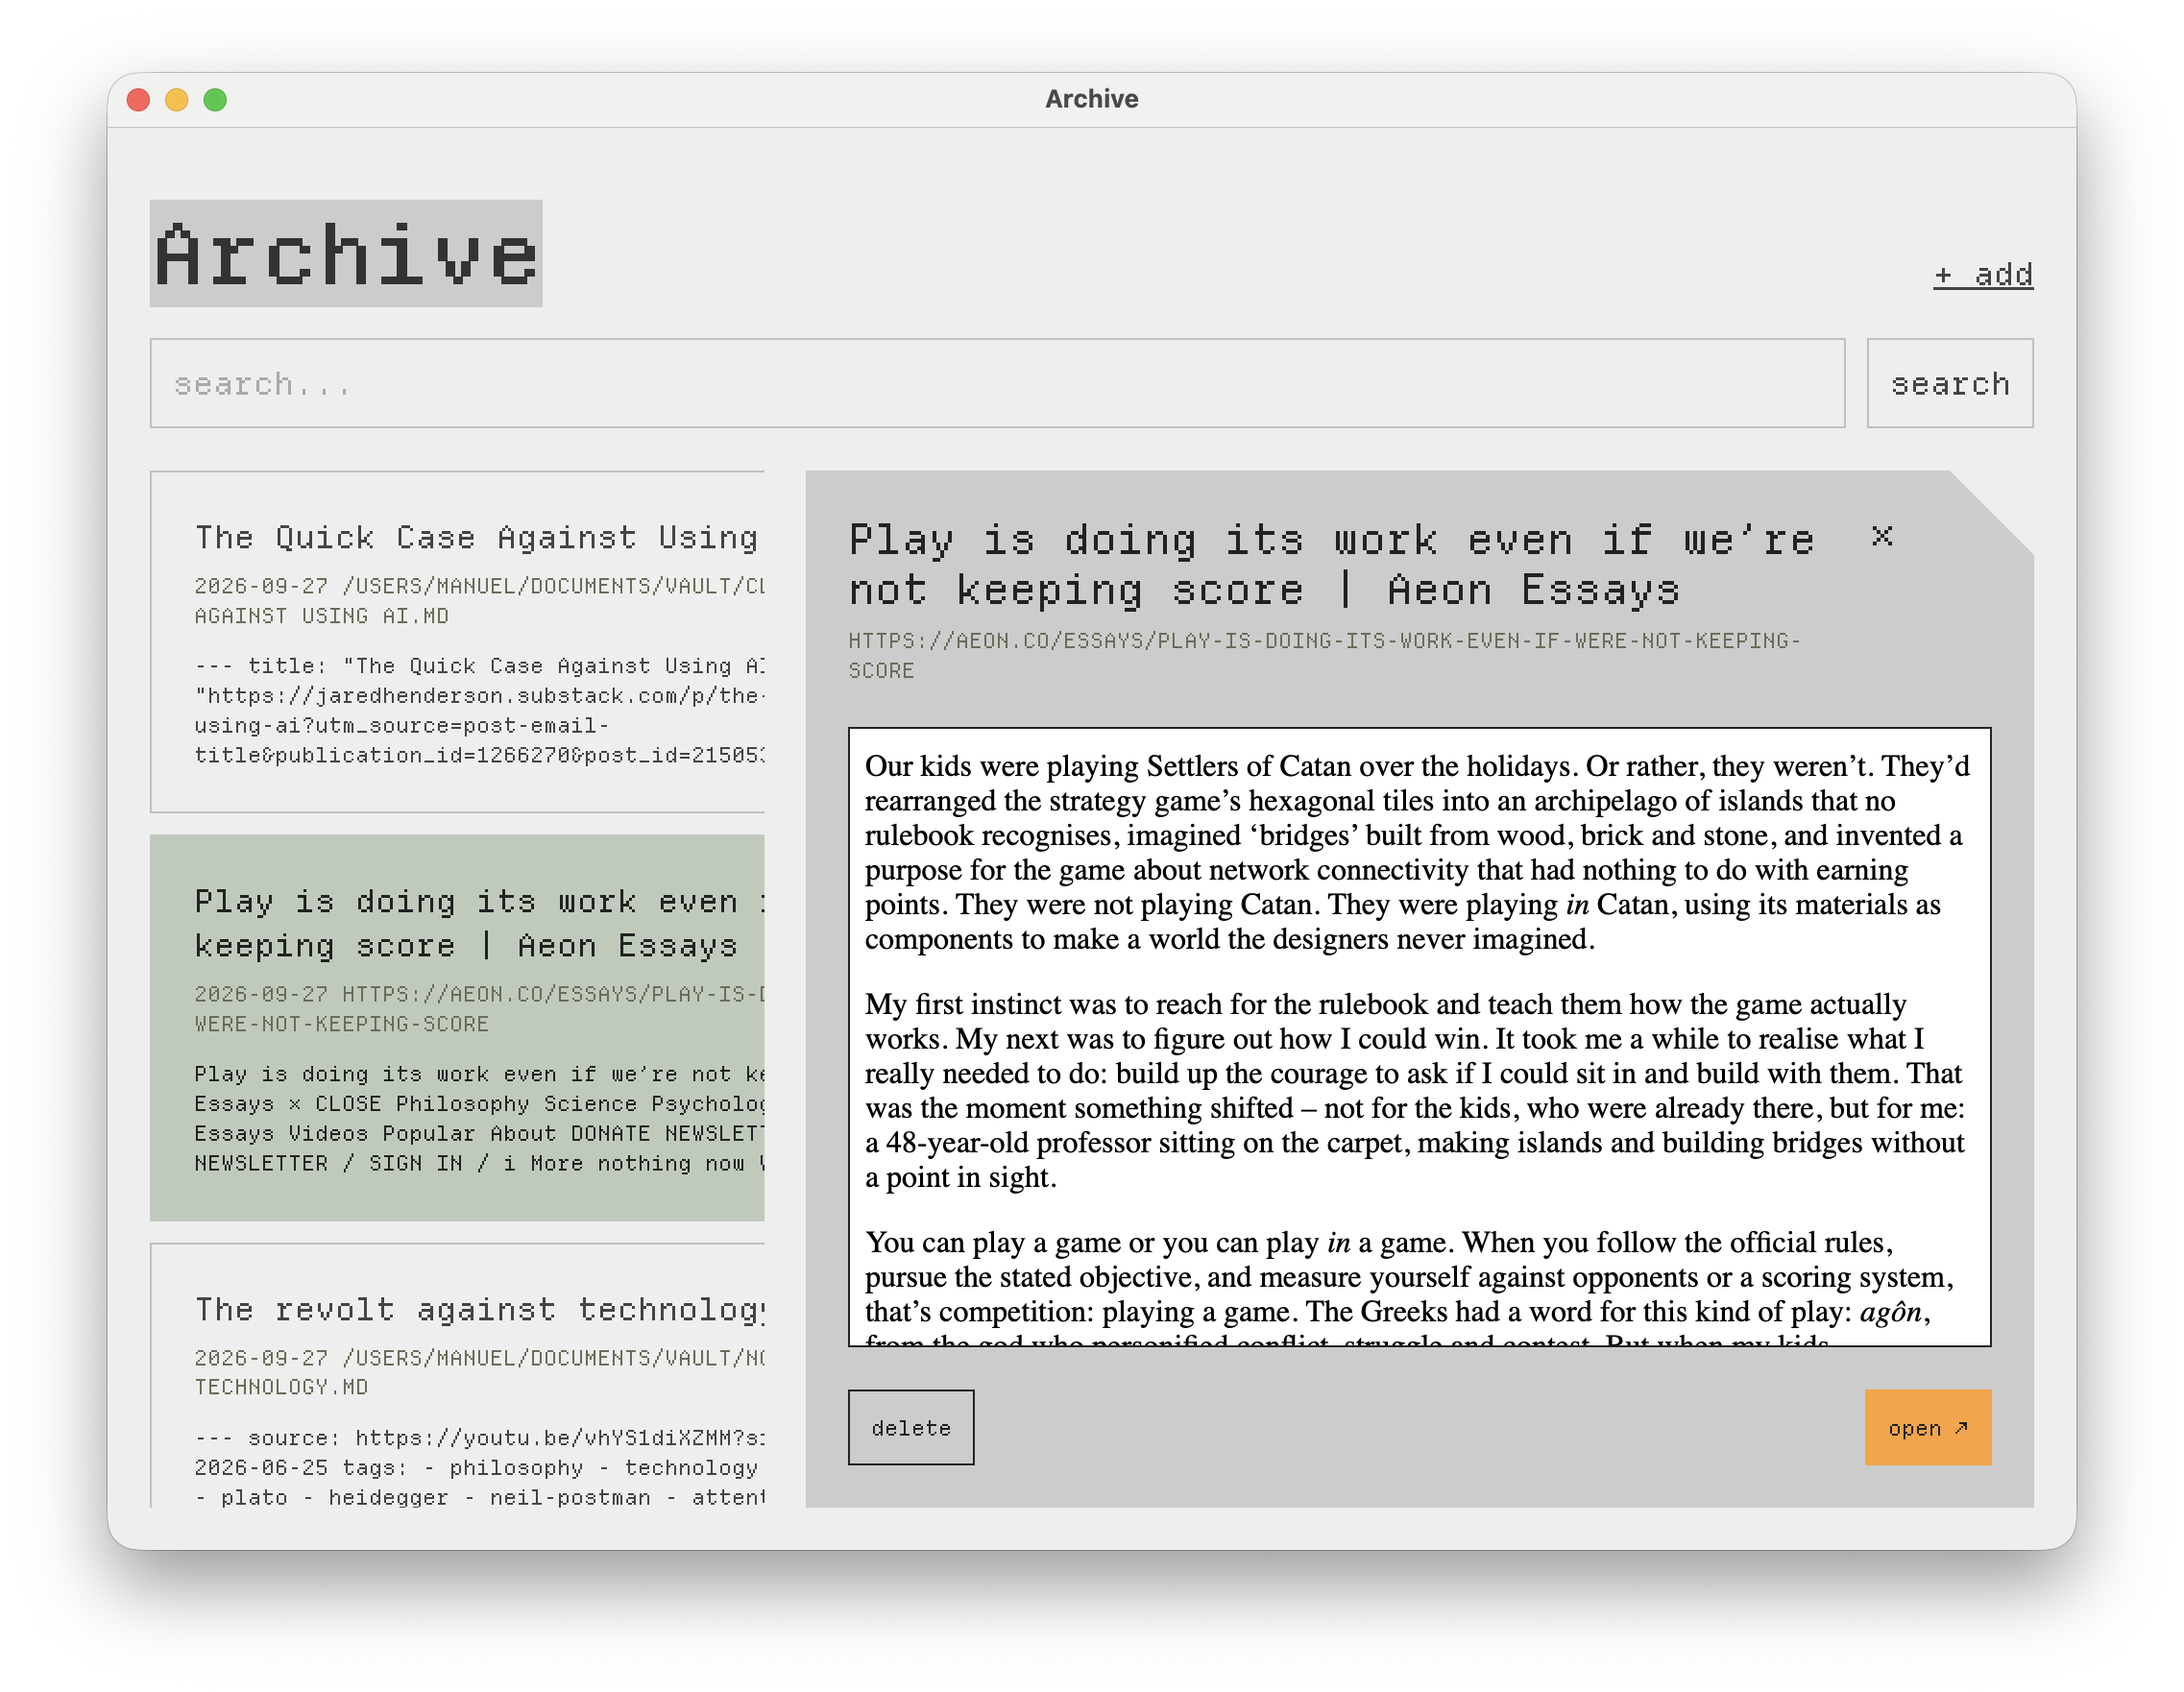
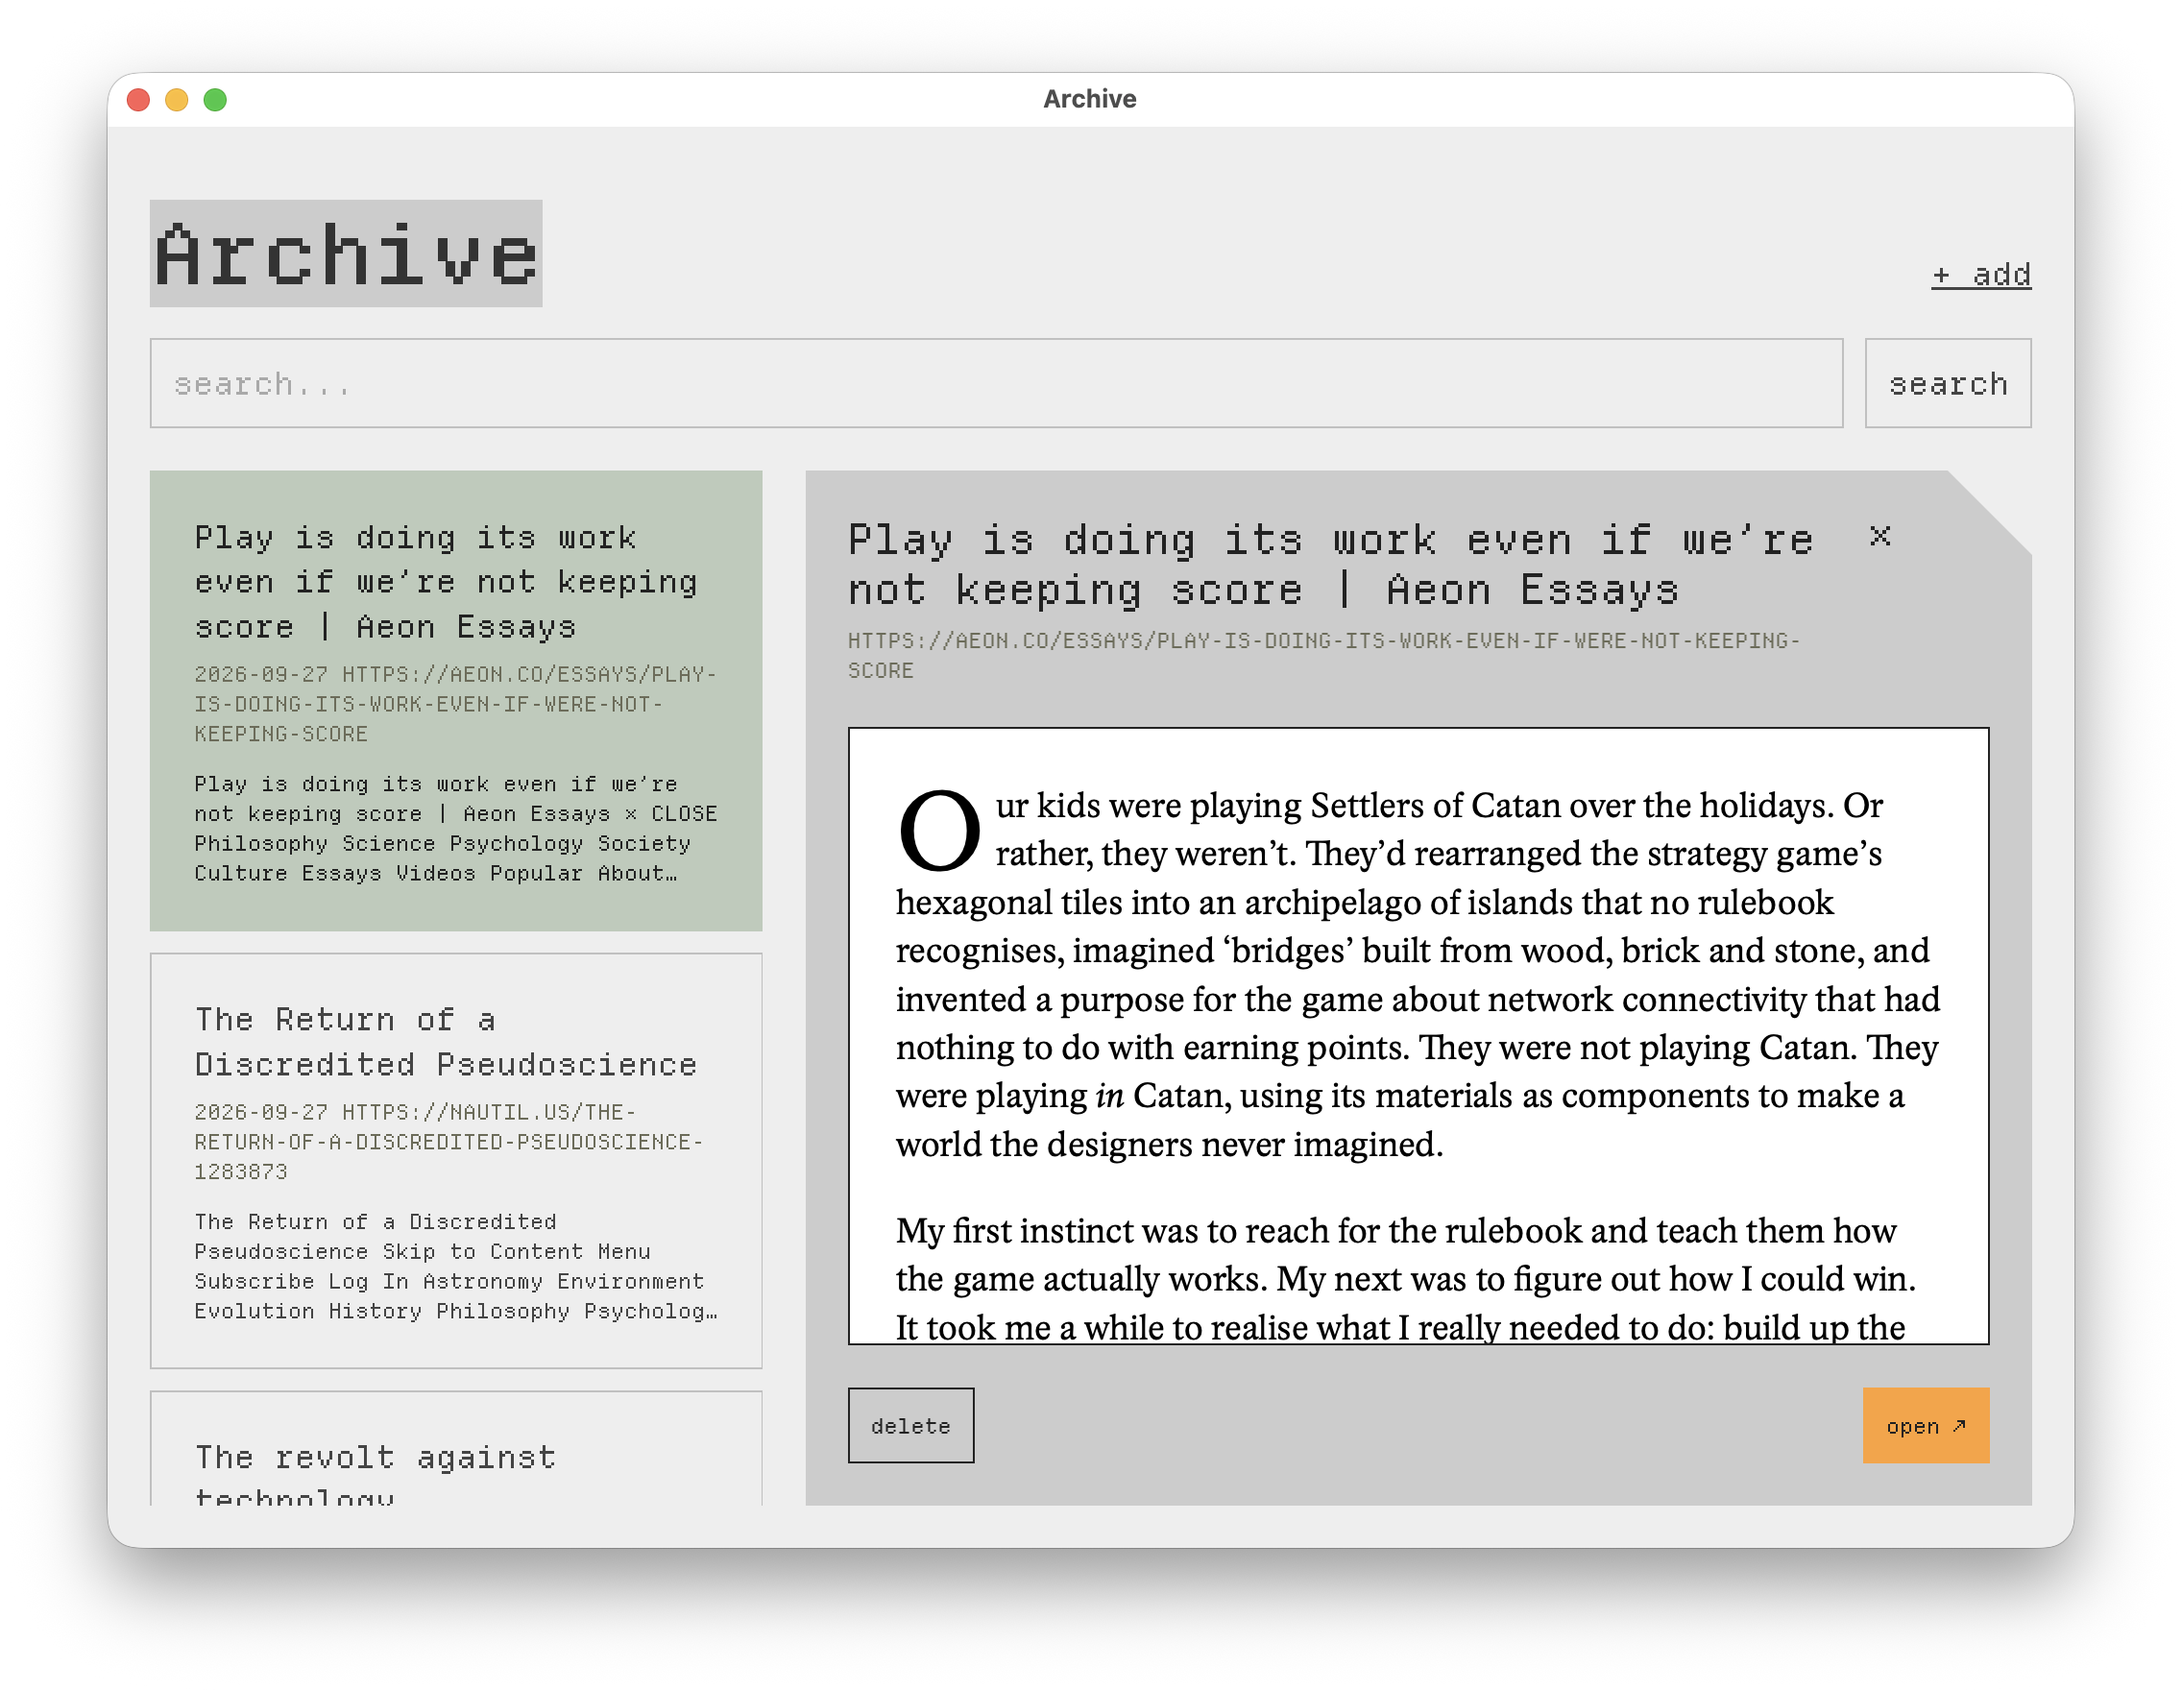
markdown renderer

diff --git a/ui/src/Preview.svelte b/ui/src/Preview.svelte
@@ -1,9 +1,12 @@
 <script>
+  import { marked } from "marked";
+
   let { item, onclose, ondelete } = $props();
 
   let text = $state("");
   let confirming = $state(false);
   let isWeb = $derived(/^https?:\/\//.test(item.source));
+  let isMarkdown = $derived(/\.md$/i.test(item.source));
 
   $effect(() => {
     const id = item.id;
@@ -20,6 +23,20 @@
 
     return () => (stale = true);
   });
+
+  function markdownPage(md) {
+    return `<style>${markdownStyle}</style>${marked.parse(md)}`;
+  }
+
+  const markdownStyle = `
+    body { margin: 0; padding: 22px; font: 13px/1.6 "Departure Mono", monospace; color: #222; background: #eee; }
+    body > :first-child { margin-top: 0; }
+    img { max-width: 100%; }
+    pre { overflow: auto; padding: 11px; background: #ccc; }
+    code { font: inherit; }
+    blockquote { margin-left: 0; padding-left: 11px; border-left: 2px solid #8e8e8e; color: #6c6c58; }
+    a { color: currentColor; }
+  `;
 
   function open() {
     if (window.openExternal) window.openExternal(item.source);
@@ -49,6 +66,10 @@
   {#if item.hasHtml}
     <!-- the server also sends sandbox -->
     <iframe sandbox="" src="/items/{item.id}/html" title={item.title || item.source}></iframe>
+  {:else if isMarkdown}
+    {#key text}
+      <iframe sandbox="" srcdoc={markdownPage(text)} title={item.title}></iframe>
+    {/key}
   {:else}
     <pre>{text}</pre>
   {/if}

diff --git a/ui/src/Library.svelte b/ui/src/Library.svelte
@@ -125,6 +125,7 @@
     width: 100%;
     text-align: left;
     padding: 22px;
+    overflow-wrap: anywhere;
   }
 
   .card.selected {
@@ -160,7 +161,6 @@
 
   .label {
     margin-bottom: 11px;
-    overflow-wrap: anywhere;
   }
 
   .excerpt {

diff --git a/README.md b/README.md
@@ -86,9 +86,9 @@ dist/archive-desktop
 
 Or open <http://localhost:8080> in a browser while `archive serve` is running.
 
-| Add a page or file                     | Read a saved page                              |
-| -------------------------------------- | ---------------------------------------------- |
-| ![Add view](docs/screenshots/add.png) | ![Viewer](docs/screenshots/webview.png) |
+| Add a page or file                     | Read a saved page                              | Read a markdown note                                |
+| -------------------------------------- | ---------------------------------------------- | --------------------------------------------------- |
+| ![Add view](docs/screenshots/add.png) | ![Viewer](docs/screenshots/webview.png) | ![Markdown note](docs/screenshots/md-render.png) |
 
 ### Data
 
@@ -140,5 +140,5 @@ The UI in `ui/` is embedded into the Go binary, so any edit there needs a Go reb
 - [x] Better UI, likely rebuilt with Svelte and compiled into `ui/` so the Go embed keeps working
 - [x] Native file picker for adding files
 - [x] Viewer for saved pages (a sandboxed iframe on `/items/{id}/html`)
-- [ ] Markdown renderer
+- [x] Markdown renderer
 - [ ] Package as a macOS `.app` bundle
